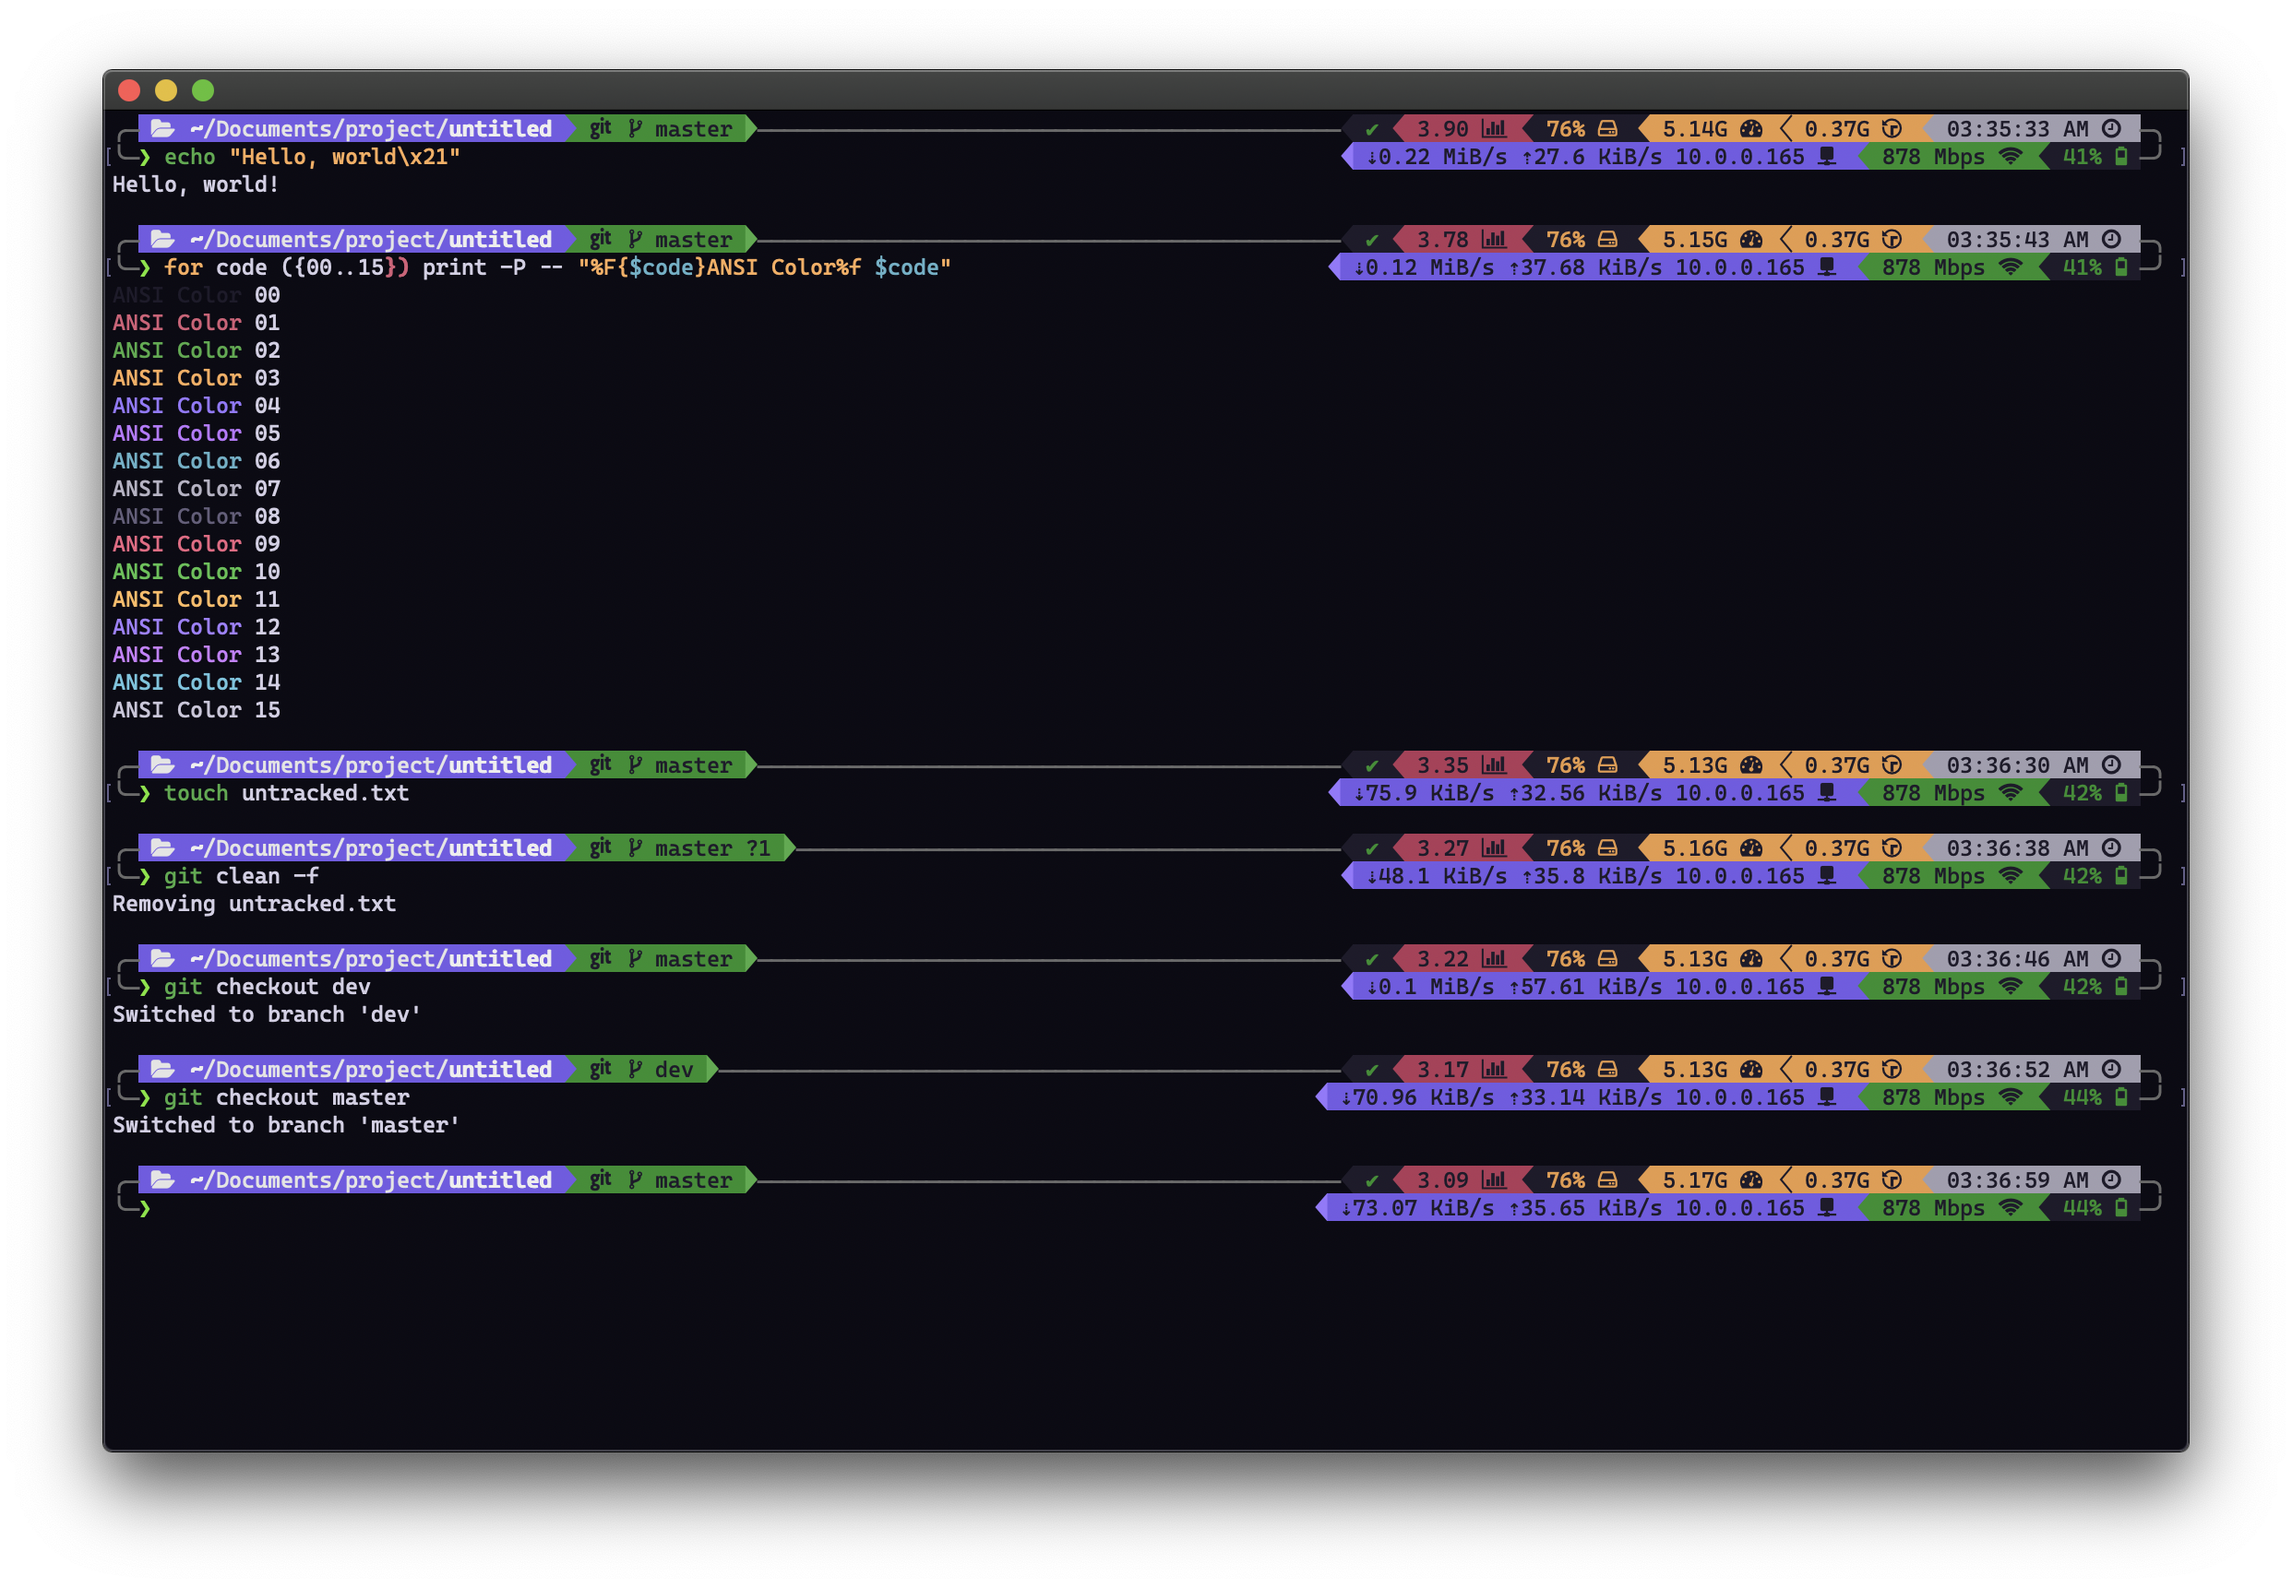
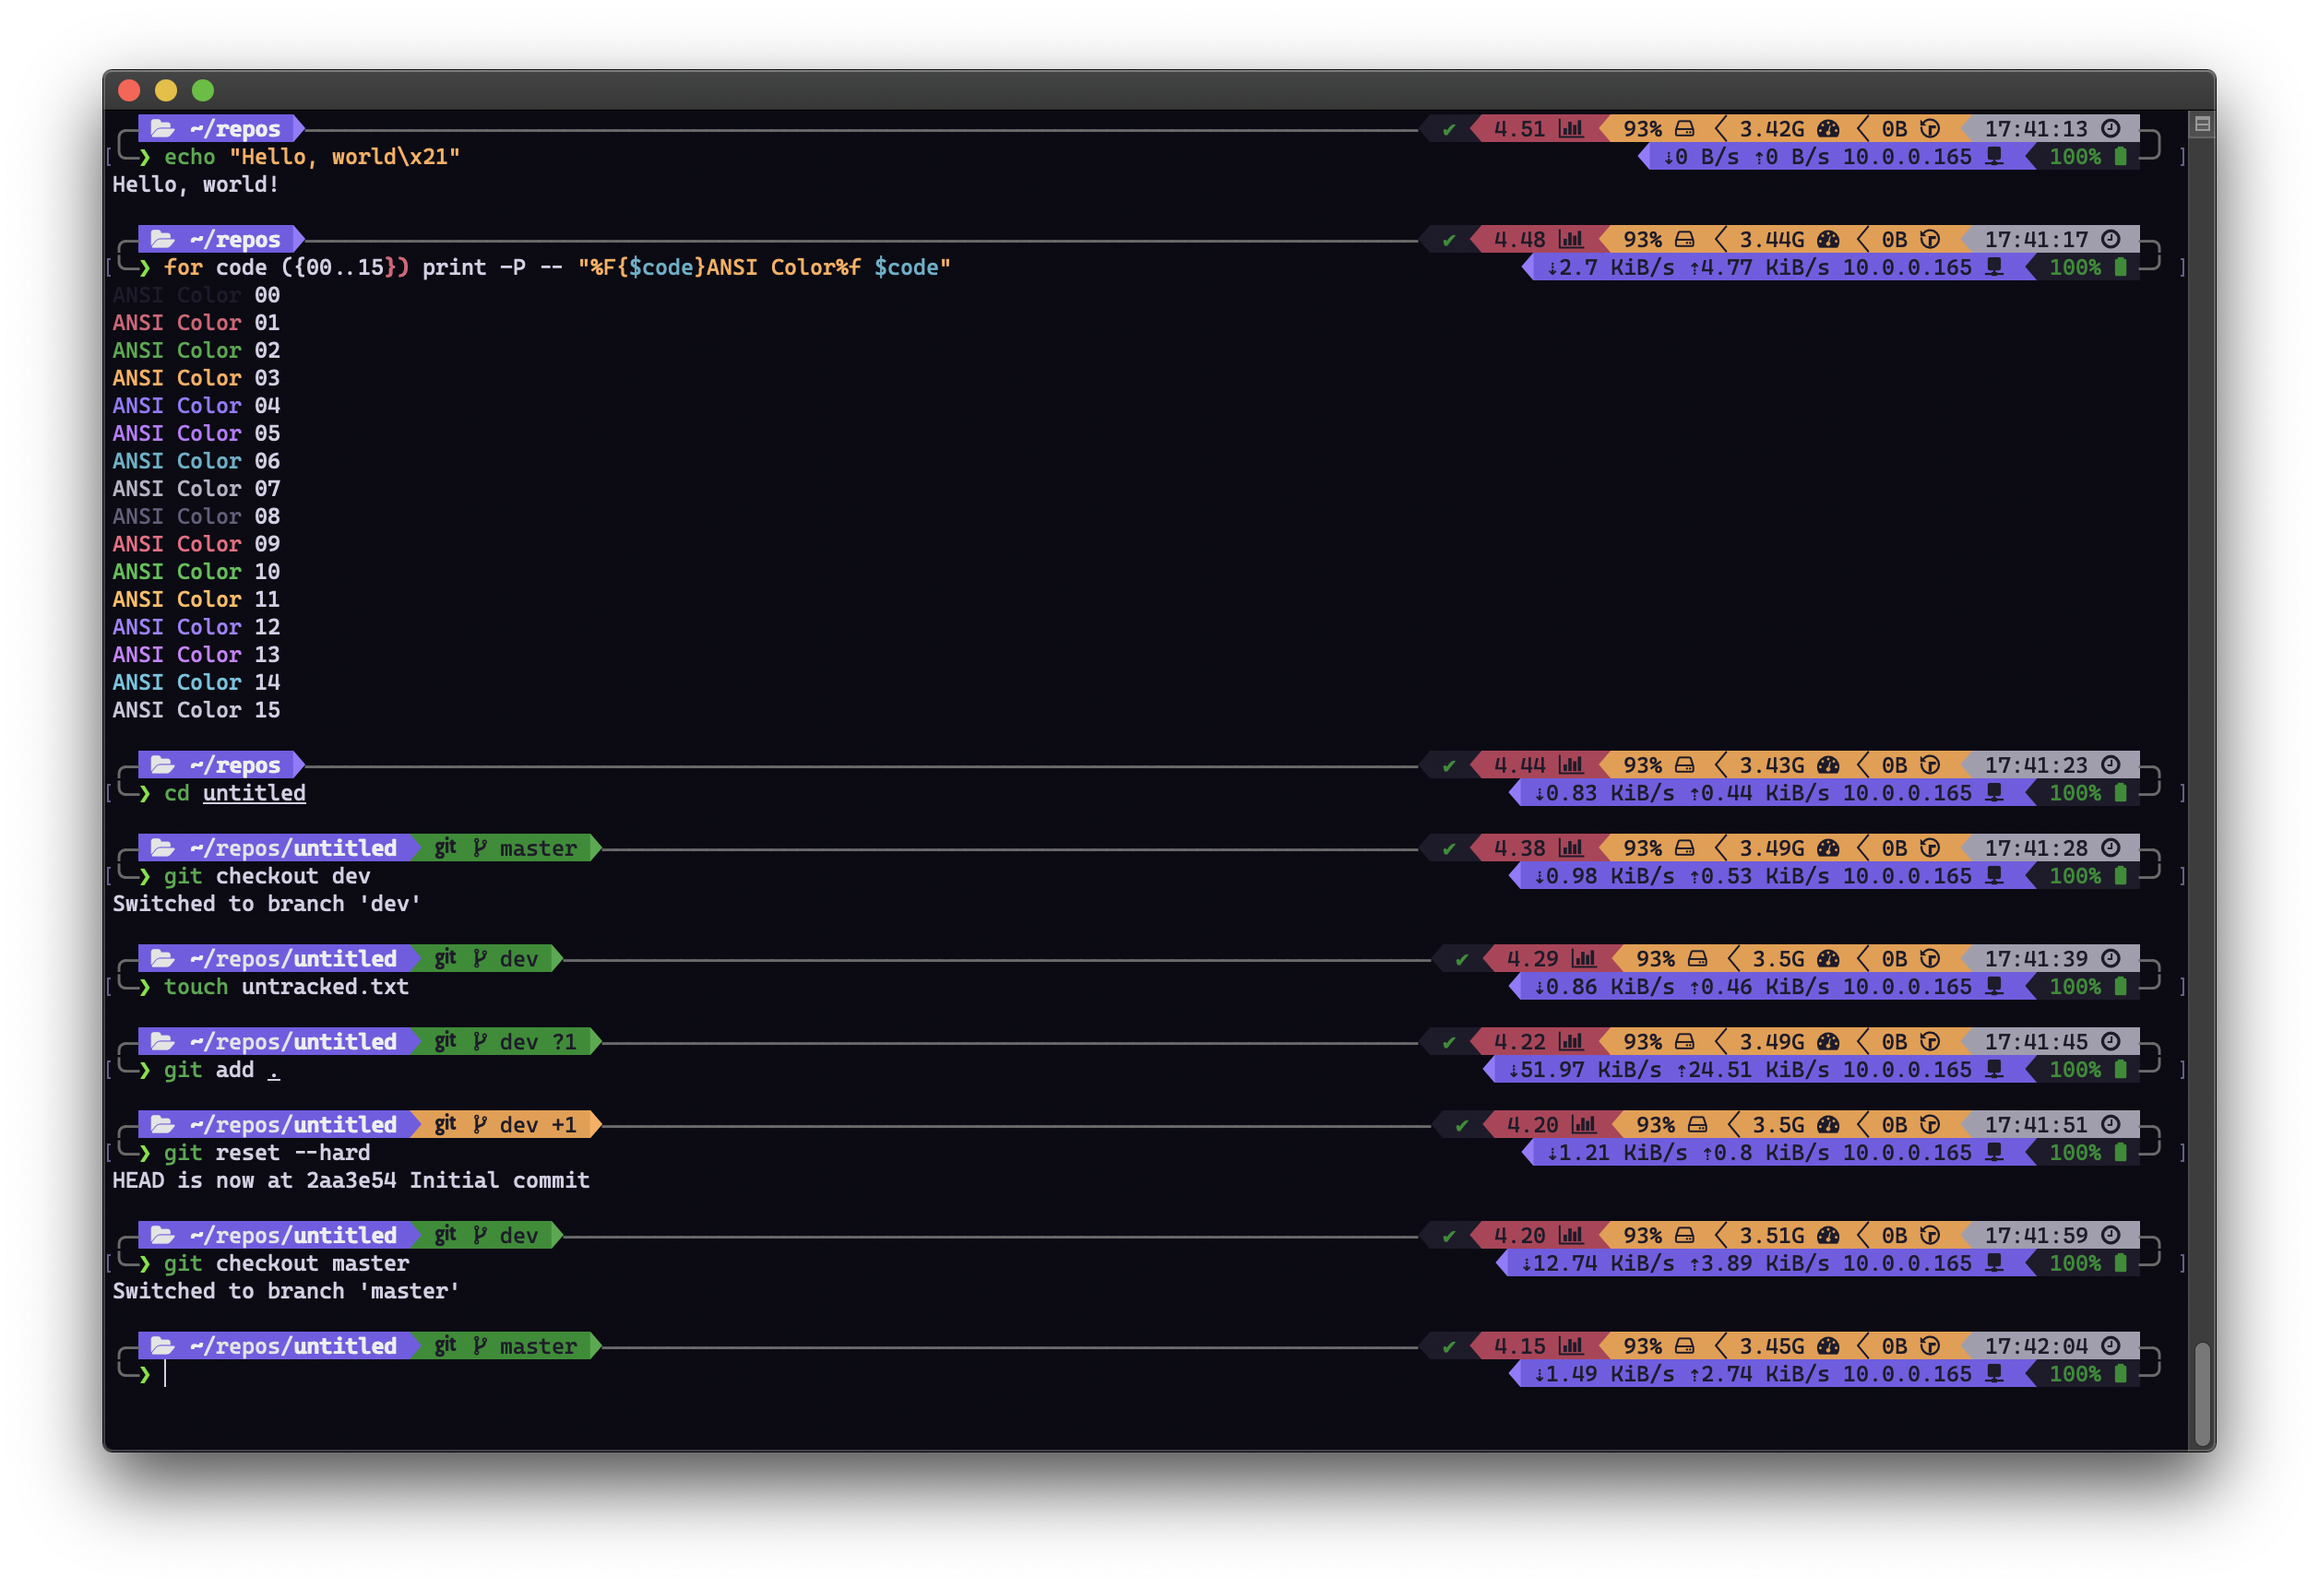
update readme + screenshot

Changed region(s): [[0.031, 0.0616, 0.961, 0.9233]]

diff --git a/README.md b/README.md
@@ -20,10 +20,10 @@ Vintage, retro, dark, vibrant, contrast, indigo, 🦄👁
 ### UniEye family:
 
 - [UniEye for Visual Studio Code](https://github.com/hbthen3rd/unieye-vscode)
-- **UniEye for macOS' Terminal.app**
 - _UniEye for Hyper.js_ (coming soon)
-- _UniEye for GNOME Terminal_ (coming soon)
-- _UniEye for Windows Terminal_ (coming soon)
+- **UniEye for macOS' Terminal.app**
+- [UniEye for GNOME Terminal](https://github.com/hbthen3rd/unieye-gnometerminal)
+- [UniEye for Windows Terminal](https://github.com/hbthen3rd/unieye-windowsterminal)
 - _UniEye for iTerm2_ (coming soon)
 
 ### Screenshot
